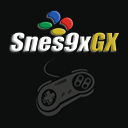
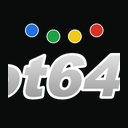
feat(wiiu): not64 artwork and README
Replaces the Snes9x GX logo, icon and splashes with generated not64 art in the
same style, and documents install, controls, build and the verification status.

diff --git a/tools/make-artwork.py b/tools/make-artwork.py
@@ -1,0 +1,163 @@
+#!/usr/bin/env python3
+"""Generates the app artwork (menu logo, channel icon, TV and GamePad splashes).
+
+The look follows dborth's GX apps: slanted, white-outlined lettering that is grey
+with a gold accent, on near-black. The text is rendered from a system font, so
+the output is plain raster art with no font dependency at run time.
+
+    python3 tools/make-artwork.py
+
+Needs Pillow. Looks for Arial Black / Arial Bold Italic (macOS), then DejaVu.
+"""
+import os
+import sys
+
+from PIL import Image, ImageDraw, ImageFilter, ImageFont
+
+ROOT = os.path.dirname(os.path.dirname(os.path.abspath(__file__)))
+OUT_META = os.path.join(ROOT, "wiiu", "meta")
+OUT_IMG = os.path.join(ROOT, "wiiu", "data", "images_hd")
+
+HEAVY = [
+    "/System/Library/Fonts/Supplemental/Arial Black.ttf",
+    "/usr/share/fonts/truetype/dejavu/DejaVuSans-Bold.ttf",
+]
+BOLD_ITALIC = [
+    "/System/Library/Fonts/Supplemental/Arial Bold Italic.ttf",
+    "/usr/share/fonts/truetype/dejavu/DejaVuSans-BoldOblique.ttf",
+]
+
+GREY_TOP, GREY_BOTTOM = (232, 232, 232), (150, 150, 150)
+GOLD_TOP, GOLD_BOTTOM = (255, 226, 92), (222, 160, 0)
+OUTLINE = (255, 255, 255)
+BACKGROUND = (10, 12, 12)
+DOTS = [(36, 112, 220), (34, 160, 70), (240, 200, 30), (215, 50, 40)]  # blue, green, yellow, red
+SHEAR = 0.22
+SS = 4  # supersampling factor
+
+
+def font(paths, size):
+    for p in paths:
+        if os.path.exists(p):
+            return ImageFont.truetype(p, size)
+    sys.exit("no usable font found, edit HEAVY / BOLD_ITALIC in this script")
+
+
+def gradient(size, top, bottom):
+    w, h = size
+    img = Image.new("RGB", size)
+    px = img.load()
+    for y in range(h):
+        t = y / max(1, h - 1)
+        c = tuple(int(top[i] + (bottom[i] - top[i]) * t) for i in range(3))
+        for x in range(w):
+            px[x, y] = c
+    return img
+
+
+def slanted_word(text, fnt, top, bottom, stroke):
+    """One word, slanted, with a gradient fill and a white outline, on transparency."""
+    probe = ImageDraw.Draw(Image.new("L", (1, 1)))
+    box = probe.textbbox((0, 0), text, font=fnt, stroke_width=stroke)
+    w, h = box[2] - box[0] + 2 * stroke, box[3] - box[1] + 2 * stroke
+    pad = int(h * SHEAR) + stroke
+
+    mask = Image.new("L", (w + pad, h), 0)
+    ImageDraw.Draw(mask).text((stroke - box[0], stroke - box[1]), text, font=fnt, fill=255)
+    outline = Image.new("L", mask.size, 0)
+    ImageDraw.Draw(outline).text((stroke - box[0], stroke - box[1]), text, font=fnt, fill=255,
+                                 stroke_width=stroke, stroke_fill=255)
+
+    def shear(m):
+        # lean the top to the right: x' = x + SHEAR * (h - y)
+        return m.transform(m.size, Image.AFFINE, (1, SHEAR, -SHEAR * h, 0, 1, 0), Image.BICUBIC)
+
+    mask, outline = shear(mask), shear(outline)
+    layer = Image.new("RGBA", mask.size, (0, 0, 0, 0))
+    layer.paste(Image.new("RGBA", mask.size, OUTLINE + (255,)), (0, 0), outline)
+    layer.paste(gradient(mask.size, top, bottom).convert("RGBA"), (0, 0), mask)
+    return layer
+
+
+def logo(width, height, brighten=False):
+    """not64 in grey with a gold U, four colour dots above, on transparency."""
+    big = (width * SS, height * SS)
+    canvas = Image.new("RGBA", big, (0, 0, 0, 0))
+
+    size = int(big[1] * 0.50)
+    fnt = font(HEAVY, size)
+    stroke = max(2, size // 22)
+    left = slanted_word("not64", fnt, GREY_TOP, GREY_BOTTOM, stroke)
+    right = slanted_word("U", fnt, GOLD_TOP, GOLD_BOTTOM, stroke)
+
+    # the slant leaves empty room to the right of the first word: tuck the U into it
+    gap = -(stroke + int(size * 0.22))
+    total = left.width + gap + right.width
+    x = (big[0] - total) // 2
+    y = int(big[1] * 0.38)
+    canvas.alpha_composite(left, (x, y))
+    canvas.alpha_composite(right, (x + left.width + gap, y))
+
+    d = ImageDraw.Draw(canvas)
+    r = int(big[1] * 0.055)
+    cx = big[0] // 2 - int(r * 5.4)
+    for i, c in enumerate(DOTS):
+        cxi = cx + int(i * r * 3.6)
+        cyi = int(big[1] * 0.20) + (r if i in (1, 2) else 0)
+        d.ellipse((cxi - r - 3, cyi - r - 3, cxi + r + 3, cyi + r + 3), fill=OUTLINE + (255,))
+        d.ellipse((cxi - r, cyi - r, cxi + r, cyi + r), fill=c + (255,))
+
+    out = canvas.resize((width, height), Image.LANCZOS)
+    if brighten:
+        px = out.load()
+        for yy in range(height):
+            for xx in range(width):
+                r_, g_, b_, a_ = px[xx, yy]
+                px[xx, yy] = (min(255, r_ + 28), min(255, g_ + 28), min(255, b_ + 28), a_)
+    return out
+
+
+def splash(width, height, subtitle_size, caption=True):
+    img = Image.new("RGBA", (width, height), BACKGROUND + (255,))
+    # a soft lighter vignette in the middle, like the dborth splashes
+    glow = Image.new("RGBA", (width, height), (0, 0, 0, 0))
+    gd = ImageDraw.Draw(glow)
+    gd.ellipse((width * 0.15, height * 0.15, width * 0.85, height * 0.85), fill=(48, 52, 52, 150))
+    img.alpha_composite(glow.filter(ImageFilter.GaussianBlur(width * 0.07)))
+
+    lw = int(width * 0.82)
+    lh = int(lw * 117 / 352)
+    img.alpha_composite(logo(lw, lh), ((width - lw) // 2, int(height * 0.14)))
+
+    d = ImageDraw.Draw(img)
+    sub = font(BOLD_ITALIC, subtitle_size)
+    text = "NINTENDO 64 EMULATOR FOR WII U"
+    tw = d.textlength(text, font=sub)
+    d.text(((width - tw) / 2, int(height * 0.66)), text, font=sub, fill=(240, 240, 240, 255))
+    if caption:
+        cap = font(BOLD_ITALIC, int(subtitle_size * 0.9))
+        d.text(((width - d.textlength("Loading...", font=cap)) / 2, int(height * 0.84)),
+               "Loading...", font=cap, fill=(200, 200, 200, 255))
+    return img
+
+
+def icon():
+    img = Image.new("RGBA", (128, 128), BACKGROUND + (255,))
+    big = logo(112, 112)
+    img.alpha_composite(big, (8, 8))
+    return img.convert("RGB")
+
+
+def main():
+    os.makedirs(OUT_META, exist_ok=True)
+    os.makedirs(OUT_IMG, exist_ok=True)
+    logo(352, 117).save(os.path.join(OUT_IMG, "logo.png"))
+    logo(352, 117, brighten=True).save(os.path.join(OUT_IMG, "logo_over.png"))
+    icon().save(os.path.join(OUT_META, "icon.png"))
+    splash(1280, 720, 30).save(os.path.join(OUT_META, "tv_splash.png"))
+    splash(854, 480, 20).save(os.path.join(OUT_META, "drc_splash.png"))
+    print("artwork written to", OUT_META, "and", OUT_IMG)
+
+
+if __name__ == "__main__":
+    main()

diff --git a/wiiu/README.md b/wiiu/README.md
@@ -1,0 +1,104 @@
+# not64 for Wii U
+
+A native Wii U (Aroma) port of [not64](https://github.com/extremscorner/not64), the Nintendo 64
+emulator for GameCube and Wii that descends from Wii64 and Mupen64GC. The interface is built on the
+framework of dborth's GX emulator ports ([snes9xgx](https://github.com/dborth/snes9xgx),
+[fceugx](https://github.com/dborth/fceugx), [vbagx](https://github.com/dborth/vbagx)), so it looks
+and behaves like them.
+
+Until now not64 ran on the Wii U only inside vWii, with the Wii's 729 MHz CPU and its fixed-function
+GPU. This port runs on the Wii U's own Espresso CPU and Latte GPU.
+
+## Status
+
+This is a work in progress. Read this section before downloading anything.
+
+| Part | State |
+|------|-------|
+| Build, packaging (`.wuhb`), CI, release | done, builds in CI |
+| dborth UI: game browser, previews, settings, button mapping, save states, languages | done, compiles and links |
+| Emulator core (R4300 interpreters, RSP HLE, memory, saves, states) on wut | done, compiles and links, ROM loading and save backends have host unit tests |
+| Audio (AI to AX), controllers (GamePad, Pro, Wiimote, Classic, GameCube, USB) | written, not run on hardware |
+| 3D renderer (glN64 on GX2) | see `docs/GX2_RENDERER.md` |
+| Code recompiler (PowerPC to PowerPC) | compiled in but **off**: it needs the OS "codegen" area, see below |
+
+**Nothing in this repository has been run on a Wii U or in an emulator.** The development machine
+had neither, so everything is verified by cross compiling in the official toolchain image, linking,
+and unit tests of the pure logic. Expect bugs on first contact with hardware and please report them.
+
+### About the recompiler
+
+The Wii U does not let an application make memory executable. The only place for generated code is
+the "codegen" area, which the OS lends to titles whose `cos.xml` permits it, and only on one
+specific CPU core. Whether a title launched through Aroma gets it depends on your setup. The port
+therefore ships with the interpreters (the pure interpreter is the default), and the recompiler
+turns on by itself only on a system that reports a usable codegen area and only once the
+recompiler allocates from it. Until then expect slower games than on a native recompiler.
+
+## Install
+
+1. Set up Aroma on your Wii U (see https://wiiu.hacks.guide).
+2. Copy `wiiu/apps/not64.wuhb` from the release zip to `sd:/wiiu/apps/` on the SD card.
+3. Put your ROMs in `sd:/not64/roms/` (`.z64`, `.n64`, `.v64`, `.rom`, also zipped or in 7z).
+4. Start not64 from the Aroma menu.
+
+Folders (all under `sd:/not64/`, or the same on USB):
+
+| Folder | What |
+|--------|------|
+| `roms` | your games |
+| `saves` | game saves (`.eep`, `.sra`, `.fla`, `.mpk`) and save states (`.st0` to `.st9`) |
+| `screenshots`, `covers`, `artwork` | pictures shown beside the game list |
+| `settings.xml` | the settings |
+
+Game saves use the same file names as not64 on the Wii, so you can copy them across.
+
+## Controls
+
+The menu is the same as in the other dborth emulators. In a game:
+
+| N64 | Pro Controller / GamePad |
+|-----|--------------------------|
+| Analog stick | left stick |
+| A, B | A, B |
+| Z | ZL or ZR |
+| Start | + |
+| L, R | L, R |
+| C buttons | right stick (or X and Y) |
+| D-pad | D-pad |
+| Open the menu | HOME, or L + R + + |
+
+Every mapping can be changed in Settings, Button Mappings. Up to four players, each with a Memory
+Pak, a Rumble Pak or none.
+
+## Build
+
+You need Docker. Nothing else is installed on the host.
+
+    docker build -f docker/Dockerfile.wiiu -t not64-wiiu-builder docker
+    docker run --rm -v "$PWD":/project not64-wiiu-builder make -f Makefile.wiiu -j8
+    # executables/not64-wiiu.wuhb
+
+    docker run --rm -v "$PWD":/project not64-wiiu-builder make -f Makefile.wiiu test
+
+The image is the one dborth's CI uses (devkitPPC, libogc2, wut) plus libmocha, libdvm and libsmb2,
+each pinned to a commit.
+
+## How it is put together
+
+    wiiu/source/            app, menus, settings, input mapping (dborth framework, adapted)
+      drivers/              platform layer (GX2 video, AX audio, VPAD/KPAD input, filesystem)
+      core/                 glue between the app and the N64 core (see below)
+    r4300/ gc_memory/ ...   the original emulator core, shared with the Wii and GameCube builds
+    Makefile.wiiu           the Wii U build
+
+`wiiu/source/core` holds what replaces the Wii hardware layer: a libogc compatibility layer
+(`compat/`), a run-time arena in place of the Wii's fixed MEM2 map, a ROM cache that keeps the whole
+ROM in RAM (no streaming), save callbacks on stdio, the audio and controller plugins, and
+`core_wiiu.c`, the only interface the app uses. The original core files carry only small
+`#ifdef __WIIU__` changes so they still build for the Wii and GameCube.
+
+## Credits
+
+See `wiiu/THIRD_PARTY.md`. not64: Extrems and the Wii64 team. Interface and Wii U drivers: Daryl
+Borth. This port: orenatobr. Licensed under the GNU GPL v2.
